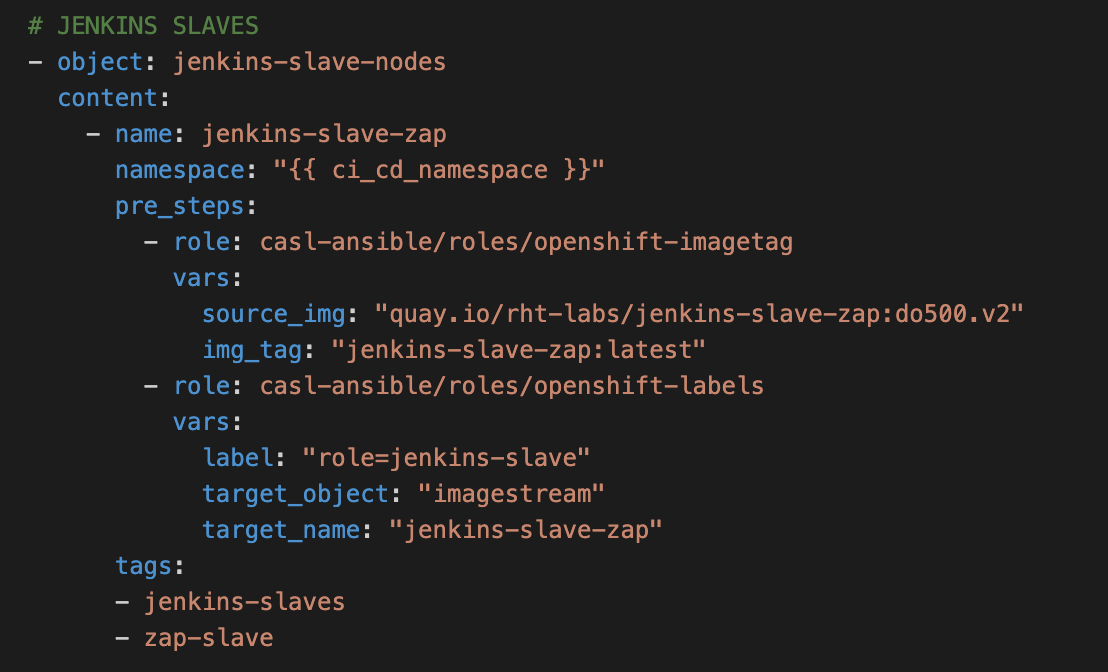
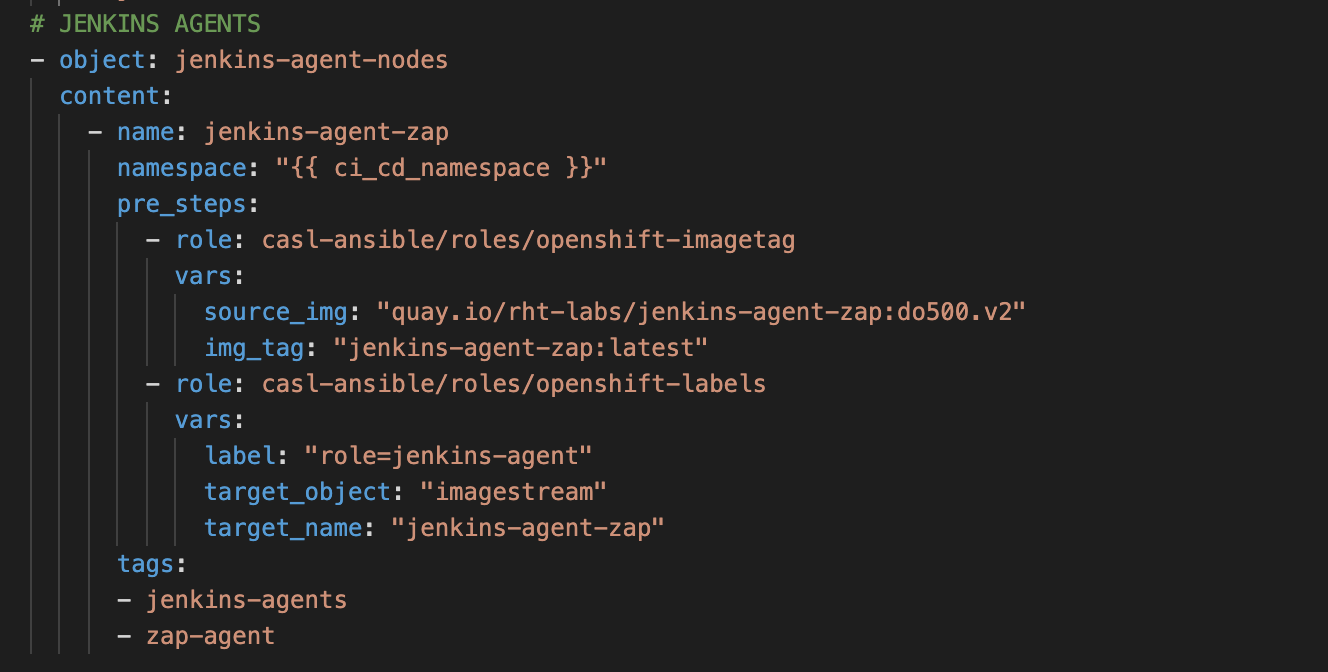
content updated with ocp4c

diff --git a/exercises/4-an-enslaved-hope/README.md b/exercises/4-an-enslaved-hope/README.md
@@ -1,6 +1,6 @@
 # An Enslaved Hope
 
-> In this exercise we will introduce some new Jenkins slaves that will be used in later exercises. We will also look at an alternative approach to doing build pipelines by creating an OpenShift buildConfig that contains our Jenkinsfile.
+> In this exercise we will introduce some new Jenkins agents that will be used in later exercises. We will also look at an alternative approach to doing build pipelines by creating an OpenShift buildConfig that contains our Jenkinsfile.
 
 ![jenkins-fail-meme](../images/exercise4/jenkins-fail-meme.jpeg)
 [image-ref](https://memegenerator.net/instance/76565947/days-since-its-been-0-days-since-a-jenkins-fail)
@@ -19,7 +19,7 @@ _____
 As a learner you will be able to
 - Use a Jenkinsfile to create a declarative pipeline to build, bake and deploy the Todolist App
 - Identify the differences between scripted, declarative and DSL pipelines
-- Create Jenkins slave nodes for use in builds in future exercises
+- Create Jenkins agent nodes for use in builds in future exercises
 
 ## Tools and Frameworks
 
@@ -35,16 +35,16 @@ As a learner you will be able to
 _____
 
 <!-- ## 10,000 Ft View
-> The goal of this exercise is to move to using the Jenkinsfile in the todolist-api and todolist projects. Additionally we will create new slaves for use in the next exercise.
+> The goal of this exercise is to move to using the Jenkinsfile in the todolist-api and todolist projects. Additionally we will create new agents for use in the next exercise.
 
 1. On Jenkins; create a multibranch pipeline project to scan the GitLab endpoint for each app. Use the Jenkinsfile provided to run the stages. Replace `<YOUR_NAME>` with the appropriate variable.
 
-2. Create two new Jenkins slaves for the `OWASP ZAP` scanner and the `Arachni` WebCrawler -->
+2. Create two new Jenkins agents for the `OWASP ZAP` scanner and the `Arachni` WebCrawler -->
 
 ## Step by Step Instructions
 
-### Part 1 - Security Scanning Slaves
-> _This part of the exercise focuses on updating the `enablement-ci-cd` repo with some new jenkins-slave pods for use in future exercise. We will use two different methods to import these slaves, one by tagging a prebuilt image and two by building the image in the cluster_
+### Part 1 - Security Scanning Agents
+> _This part of the exercise focuses on updating the `enablement-ci-cd` repo with some new jenkins-agent pods for use in future exercise. We will use two different methods to import these agents, one by tagging a prebuilt image and two by building the image in the cluster_
 
 #### 1a - OWASP ZAP
 > _OWASP ZAP (Zed Attack Proxy) is a free open source security tool used for finding security vulnerabilities in web applications._
@@ -55,33 +55,33 @@ _____
 
 <kbd>📝 *inventory/host_vars/ci-cd-tooling.yml*</kbd>
 ```yaml
-# JENKINS SLAVES
-- object: jenkins-slave-nodes
+# JENKINS AGENTS
+- object: jenkins-agent-nodes
   content:
 ```
 
-3. The ZAP image we will use is pre-built and hosted on Quay. The Dockerfile used to built it can be found on the Red Hat Communities of Practice Containers Quickstarts repository, along with a host of other useful [Jenkins slaves](https://github.com/redhat-cop/containers-quickstarts/tree/master/jenkins-slaves). To save time, we will use a prebuilt image. As we did with our `jenkins-slave-npm`, let's add some `pre_steps` for the applier to pull this image into our cluster and label it for use in Jenkins.
+3. The ZAP image we will use is pre-built and hosted on Quay. The Dockerfile used to built it can be found on the Red Hat Communities of Practice Containers Quickstarts repository, along with a host of other useful [Jenkins agents](https://github.com/redhat-cop/containers-quickstarts/tree/master/jenkins-agents). To save time, we will use a prebuilt image. As we did with our `jenkins-agent-npm`, let's add some `pre_steps` for the applier to pull this image into our cluster and label it for use in Jenkins.
 
 <kbd>📝 *inventory/host_vars/ci-cd-tooling.yml*</kbd>
 ```yaml
-# JENKINS SLAVES
-- object: jenkins-slave-nodes
+# JENKINS AGENTS
+- object: jenkins-agent-nodes
   content:
-    - name: jenkins-slave-zap
+    - name: jenkins-agent-zap
       namespace: "{{ ci_cd_namespace }}"
       pre_steps:
         - role: casl-ansible/roles/openshift-imagetag
           vars:
             source_img: "quay.io/rht-labs/jenkins-slave-zap:do500.v2"
-            img_tag: "jenkins-slave-zap:latest"
+            img_tag: "jenkins-agent-zap:latest"
         - role: casl-ansible/roles/openshift-labels
           vars:
-            label: "role=jenkins-slave"
+            label: "role=jenkins-agent"
             target_object: "imagestream"
-            target_name: "jenkins-slave-zap"
+            target_name: "jenkins-agent-zap"
       tags:
-      - jenkins-slaves
-      - zap-slave
+      - jenkins-agents
+      - zap-agent
 ```
 ![zap-object](../images/exercise4/zap-object.png)
 
@@ -96,41 +96,39 @@ oc login -u <username> -p <password> <CLUSTER_URL>
 cd /projects/enablement-ci-cd
 ansible-playbook apply.yml -e target=tools \
      -i inventory/ \
-     -e "filter_tags=zap-slave"
+     -e "filter_tags=zap-agent"
 ```
 
-5. Head to `<CLUSTER_URL>` on OpenShift and move to Builds > Images in your CI/CD project. You should see `jenkins-slave-zap` Image Stream has been imported.
+5. Head to `<CLUSTER_URL>` on OpenShift and move to Builds > Images in your CI/CD project. You should see `jenkins-agent-zap` Image Stream has been imported.
 ![zap-image-stream](../images/exercise4/zap-image-stream.png)
 
 #### 1b - Arachni Scan
 > _Arachni is a feature-full, modular, high-performance Ruby framework aimed towards helping penetration testers and administrators evaluate the security of web applications._
 
-1. Create an object in `inventory/host_vars/ci-cd-tooling.yml` called `arachni` and add the following variables to tell your template where to find the slave definition to be built.
+1. Create an object in `inventory/host_vars/ci-cd-tooling.yml` called `arachni` and add the following variables to tell your template where to find the agent definition to be built.
 
 <kbd>📝 *inventory/host_vars/ci-cd-tooling.yml*</kbd>
 ```yaml
 
   arachni:
     SOURCE_REPOSITORY_URL: "{{ cop_quickstarts }}"
-    SOURCE_CONTEXT_DIR: jenkins-agents/jenkins-slave-agent
-    BUILDER_IMAGE_NAME: registry.access.redhat.com/openshift3/jenkins-slave-base-rhel7:v3.11
+    SOURCE_CONTEXT_DIR: jenkins-agents/jenkins-agent-arachni
+    BUILDER_IMAGE_NAME: quay.io/openshift/origin-jenkins-agent-base:4.5
     NAME: jenkins-agent-arachni
     SOURCE_REPOSITORY_REF: "{{ cop_quickstarts_raw_version_tag }}"
-    SLAVE_IMAGE_TAG: latest
-
 ```
 
 2. Add the definition below underneath the Zap config
 
 <kbd>📝 *inventory/host_vars/ci-cd-tooling.yml*</kbd>
 ```yaml
-    - name: jenkins-slave-arachni
-      template: "{{ cop_quickstarts_raw }}/{{ cop_quickstarts_raw_version_tag }}/.openshift/templates/jenkins-slave-generic-template.yml"
+    - name: jenkins-agent-arachni
+      template: "{{ cop_quickstarts_raw }}/{{ cop_quickstarts_raw_version_tag }}/.openshift/templates/jenkins-agent-generic-template.yml"
       params_from_vars: "{{ arachni }}"
       namespace: "{{ ci_cd_namespace }}"
       tags:
-      - jenkins-slaves
-      - arachni-slave
+      - jenkins-agents
+      - arachni-agent
 ```
 ![arachni-object](../images/exercise4/arachni-object.png)
 
@@ -138,7 +136,7 @@ ansible-playbook apply.yml -e target=tools \
 ```bash
 ansible-playbook apply.yml -e target=tools \
      -i inventory/ \
-     -e "filter_tags=arachni-slave"
+     -e "filter_tags=arachni-agent"
 ```
 
 4. With these changes in place, push your changes to the `master` branch.
@@ -152,8 +150,8 @@ git commit -m "ADD - Arachni and Zap scanning images"
 git push
 ```
 
-5. Your OpenShift cluster should now show that the Arachni slave has been built in your `ci-cd` namepsace.
-![all-slaves](../images/exercise4/arachni-slave.png)
+5. Your OpenShift cluster should now show that the Arachni agent has been built in your `ci-cd` namepsace.
+![all-agents](../images/exercise4/arachni-agent.png)
 
 
 ### Part 2 - OCP Pipeline

diff --git a/exercises/1-the-manual-menace/README.md b/exercises/1-the-manual-menace/README.md
@@ -122,7 +122,7 @@ https://codeready-workspaces.apps.<DOMAIN_FOR_YOUR_CLASS>/f?url=https://raw.gith
 └── templates
     └── project-requests.yml
 ```
- * `docker` folder contains sample Dockerfiles for our jenkins-slave images that will be used by the builds.
+ * `docker` folder contains sample Dockerfiles for our jenkins-agent images that will be used by the builds.
  * `jenkins-s2i` contains the configuration and plugins we want to bring jenkins to life with
  * `params` houses the variables we will load the templates with
  * `templates` is a collection of OpenShift Container Platform templates
@@ -399,10 +399,10 @@ JENKINS_OPTS=--sessionTimeout=720
 ```
   * You might be wondering why we have to replace <YOUR_NAME> here and can't just rely on the `namespace_prefix` variable that we've been using previously. This is because the replacement is handled by two different engines (one being ansible -- which knows about `namespace_prefix` and the other being the oc client, which does not). Because the params files are processed by the oc client, we need to update this here.
 
-2. Add a `jenkins` variable to the Ansible inventory underneath the jenkins-mongo in  `inventory/host_vars/ci-cd-tooling.yml` as shown below to create a DeploymentConfig for Jenkins. In order for Jenkins to be able to run `npm` commands we must configure a jenkins build slave for it to use. This slave will be dynamically provisioned when we run a build. It needs to have Node.js and npm and a C compiler installed in it. 
+2. Add a `jenkins` variable to the Ansible inventory underneath the jenkins-mongo in  `inventory/host_vars/ci-cd-tooling.yml` as shown below to create a DeploymentConfig for Jenkins. In order for Jenkins to be able to run `npm` commands we must configure a jenkins build agent for it to use. This agent will be dynamically provisioned when we run a build. It needs to have Node.js and npm and a C compiler installed in it. 
 
 <p class="tip">
-<b>NOTE</b> These slaves can take a time to build themselves so to speed up we have placed the slave with a corresponding ImageStream within OpenShift. To leverage this existing slave image, we are using a feature of the openshift-applier to process a couple of post-steps part of the inventory. These steps are utilized to perform pre and post tasks necessary to make our inventory work correctly. In this case, we use the post steps to tag and label the jenkins-slave-npm ImageStream within our CI/CD project so Jenkins knows how to find and use it.
+<b>NOTE</b> These agents can take a time to build themselves so to speed up we have placed the agent with a corresponding ImageStream within OpenShift. To leverage this existing agent image, we are using a feature of the openshift-applier to process a couple of post-steps part of the inventory. These steps are utilized to perform pre and post tasks necessary to make our inventory work correctly. In this case, we use the post steps to tag and label the jenkins-agent-npm ImageStream within our CI/CD project so Jenkins knows how to find and use it.
 </p>
 
 <kbd>📝 *enablement-ci-cd/inventory/host_vars/ci-cd-tooling.yml*</kbd>
@@ -415,12 +415,12 @@ JENKINS_OPTS=--sessionTimeout=720
       - role: casl-ansible/roles/openshift-imagetag
         vars:
           source_img: "quay.io/rht-labs/enablement-npm:latest"
-          img_tag: "jenkins-slave-npm:latest"
+          img_tag: "jenkins-agent-npm:latest"
       - role: casl-ansible/roles/openshift-labels
         vars:
-          label: "role=jenkins-slave"
+          label: "role=jenkins-agent"
           target_object: "imagestream"
-          target_name: "jenkins-slave-npm"
+          target_name: "jenkins-agent-npm"
     tags:
     - jenkins
 ```
@@ -473,8 +473,6 @@ SOURCE_REPOSITORY_URL=<GIT_URL>
 NAME=jenkins
 SOURCE_REPOSITORY_CONTEXT_DIR=jenkins-s2i
 SOURCE_REPOSITORY_SECRET=gitlab-auth
-SOURCE_REPOSITORY_USERNAME=<YOUR_LDAP_USERNAME>
-SOURCE_REPOSITORY_PASSWORD=<YOUR_LDAP_PASSWORD>
 ```
 where
     * `<GIT_URL>` is the full clone path of the repo where this project is stored (including the https && .git)

diff --git a/exercises/5-non-functionals-strike-back/README.md b/exercises/5-non-functionals-strike-back/README.md
@@ -45,7 +45,7 @@ As a learner you will be able to
 <!-- 1. [stryker](http://stryker-mutator.io/) - Mutation testing! What is it? Bugs, or mutants, are automatically inserted into your production code. Your tests are run for each mutant. If your tests fail then the mutant is killed. If your tests passed, the mutant survived. The higher the percentage of mutants killed, the more effective your tests are. It's really that simple. -->
 
 ## Big Picture
-> In the previous exercise; we introduced pipeline-as-code and new Jenkins Slave nodes. This exercise focuses on extending the pipeline with non-functional testing and some automated security testing.
+> In the previous exercise; we introduced pipeline-as-code and new Jenkins Agent nodes. This exercise focuses on extending the pipeline with non-functional testing and some automated security testing.
 
 ![big-picture](../images/big-picture/big-picture-5.jpg)
 
@@ -91,14 +91,14 @@ _____
         }
 ```
 
-4. Let's start filling out the configuration for the OWASP Zap scan first. We will set the label to our slave created in previous exercise and a `when` condition to only execute the job when on either the master or develop branch.
+4. Let's start filling out the configuration for the OWASP Zap scan first. We will set the label to our agent created in previous exercise and a `when` condition to only execute the job when on either the master or develop branch.
 
 <kbd>📝 *todolist/Jenkinsfile*</kbd>
 ```groovy
 stage('OWASP Zap') {
     agent {
         node {
-            label "jenkins-slave-zap"
+            label "jenkins-agent-zap"
         }
     }
     when {
@@ -114,7 +114,7 @@ stage('OWASP Zap') {
 stage('OWASP Zap') {
         agent {
             node {
-                label "jenkins-slave-zap"
+                label "jenkins-agent-zap"
             }
         }
         when {
@@ -137,7 +137,7 @@ stage('OWASP Zap') {
 stage('OWASP Scan') {
     agent {
         node {
-            label "jenkins-slave-zap"
+            label "jenkins-agent-zap"
         }
     }
     when {
@@ -173,7 +173,7 @@ stage('OWASP Scan') {
     stage('Arachni') {
         agent {
             node {
-                label "jenkins-slave-arachni"
+                label "jenkins-agent-arachni"
             }
         }
         when {
@@ -316,7 +316,7 @@ An arbitrary value for the APIs to respond in has been chosen. It is set in the 
 1. Create a new Item on Jenkins, `nightly-perf-test` and make it a freestyle job.
 ![new-job](../images/exercise5/new-job.png)
 
-2. Set the `label` on `Restrict where this project can be run` to `jenkins-slave-npm` one used by the build jobs previously.
+2. Set the `label` on `Restrict where this project can be run` to `jenkins-agent-npm` one used by the build jobs previously.
 ![slave-label](../images/exercise5/slave-label.png)
 
 3. In the SCM section; set the project to use the `todolist` git project. Set the credentials accordingly.

diff --git a/exercises/2-attack-of-the-pipelines/README.md b/exercises/2-attack-of-the-pipelines/README.md
@@ -413,7 +413,7 @@ This exercise will involve creating three stages (or items) in our pipeline, eac
 3. The page that loads is the Job Configuration page and it can be returned to at anytime from Jenkins. Let's start configuring our job. To conserve space; we will make sure Jenkins only keeps the last build's artifacts. Tick the `Discard old builds` checkbox, then `Advanced` and set `Max # of builds to keep with artifacts` to 1 as indicated below
 ![keep-artifacts](../images/exercise2/keep-artifacts.png)
 
-4. Our Node.js build needs to be run on the `jenkins-slave-npm` we bought in in the previous chapter. Specify this in the box labelled `Restrict where this project can be run` ![label-jenkins-slave](../images/exercise2/label-jenkins-slave.png)
+4. Our Node.js build needs to be run on the `jenkins-agent-npm` we bought in in the previous chapter. Specify this in the box labelled `Restrict where this project can be run` ![label-jenkins-agent](../images/exercise2/label-jenkins-agent.png)
 
 5. On the Source Code Management tab, select the Git radio button, specify the endpoint for our GitLab `todolist` Project and specify your credentials (`<YOUR_NAME>-ci-cd-gitlab-auth`) from the dropdown box. Set the Branch Specifier to `develop`. ![git-scm](../images/exercise2/git-scm.png)
 
@@ -551,7 +551,7 @@ Some of the key things to note:
     * `options {}` contains specific Job specs you want to run globally across the jobs e.g. setting the terminal colour
     * `stage {}` all jobs must have one stage. This is the logical part of the build that will be executed e.g. `bake-image`
     * `steps {}` each `stage` has one or more steps involved. These could be execute shell or git checkout etc.
-    * `agent {}` specifies the node the build should be run on e.g. `jenkins-slave-npm`
+    * `agent {}` specifies the node the build should be run on e.g. `jenkins-agent-npm`
     * `post {}` hook is used to specify the post-build-actions. Jenkins declarative pipeline syntax provides very useful callbacks for `success`, `failure` and `always` which are useful for controlling the job flow
     * `when {}` is used for flow control. It can be used at the stage level and be used to stop pipeline entering that stage. e.g. when branch is master; deploy to `test` environment.
     

diff --git a/exercises/3-revenge-of-the-automated-testing/README.md b/exercises/3-revenge-of-the-automated-testing/README.md
@@ -199,14 +199,14 @@ stage("e2e test") {
 ```
 ![e2e-stage-new](../images/exercise3/e2e-stage-new.png)
 
-5. Set the agent that this stage should execute on. In this case it will use the same `jenkins-slave-npm` that was used in the build stage. Set the steps needed to execute the tests and add the reporting location
+5. Set the agent that this stage should execute on. In this case it will use the same `jenkins-agent-npm` that was used in the build stage. Set the steps needed to execute the tests and add the reporting location
 
 <kbd>📝 todolist/Jenkinsfile</kbd>
 ```Jenksfile
 stage("e2e test") {
             agent {
                 node {
-                    label "jenkins-slave-npm"
+                    label "jenkins-agent-npm"
                 }
             }
             when {

diff --git a/exercises/0-rogue-cluster/README.md b/exercises/0-rogue-cluster/README.md
@@ -6,7 +6,7 @@
 
 ## Cluster Requirements
 
-Learners will create 3 to 4 project namespaces running lightweight Node.js app \* 2 and a MongoDB in up to three of these namespace (dev, test, uat for example). The learners ci-cd namespace will house GitLab, Nexus and Jenkins as well as any slave pods used by Jenkins.
+Learners will create 3 to 4 project namespaces running lightweight Node.js app \* 2 and a MongoDB in up to three of these namespace (dev, test, uat for example). The learners ci-cd namespace will house GitLab, Nexus and Jenkins as well as any agent pods used by Jenkins.
 
 - Jenkins requires 5Gi of Persistent Storage and 4Gi of RAM
 - GitLab requires 2Gi of storage and 2Gi of RAM

diff --git a/slides/markdown/pipelines_as_code.md b/slides/markdown/pipelines_as_code.md
@@ -33,7 +33,7 @@ creation.
 
 ### What new tools and frameworks will we use?
 * **Jenkinsfile**: a Jenkins pipeline can be described in this single file
-* **Jenkins Slave**: provides a flexible way to add compute nodes with
+* **Jenkins Agent**: provides a flexible way to add compute nodes with
 specific configurations to a Jenkins instance
 
 
